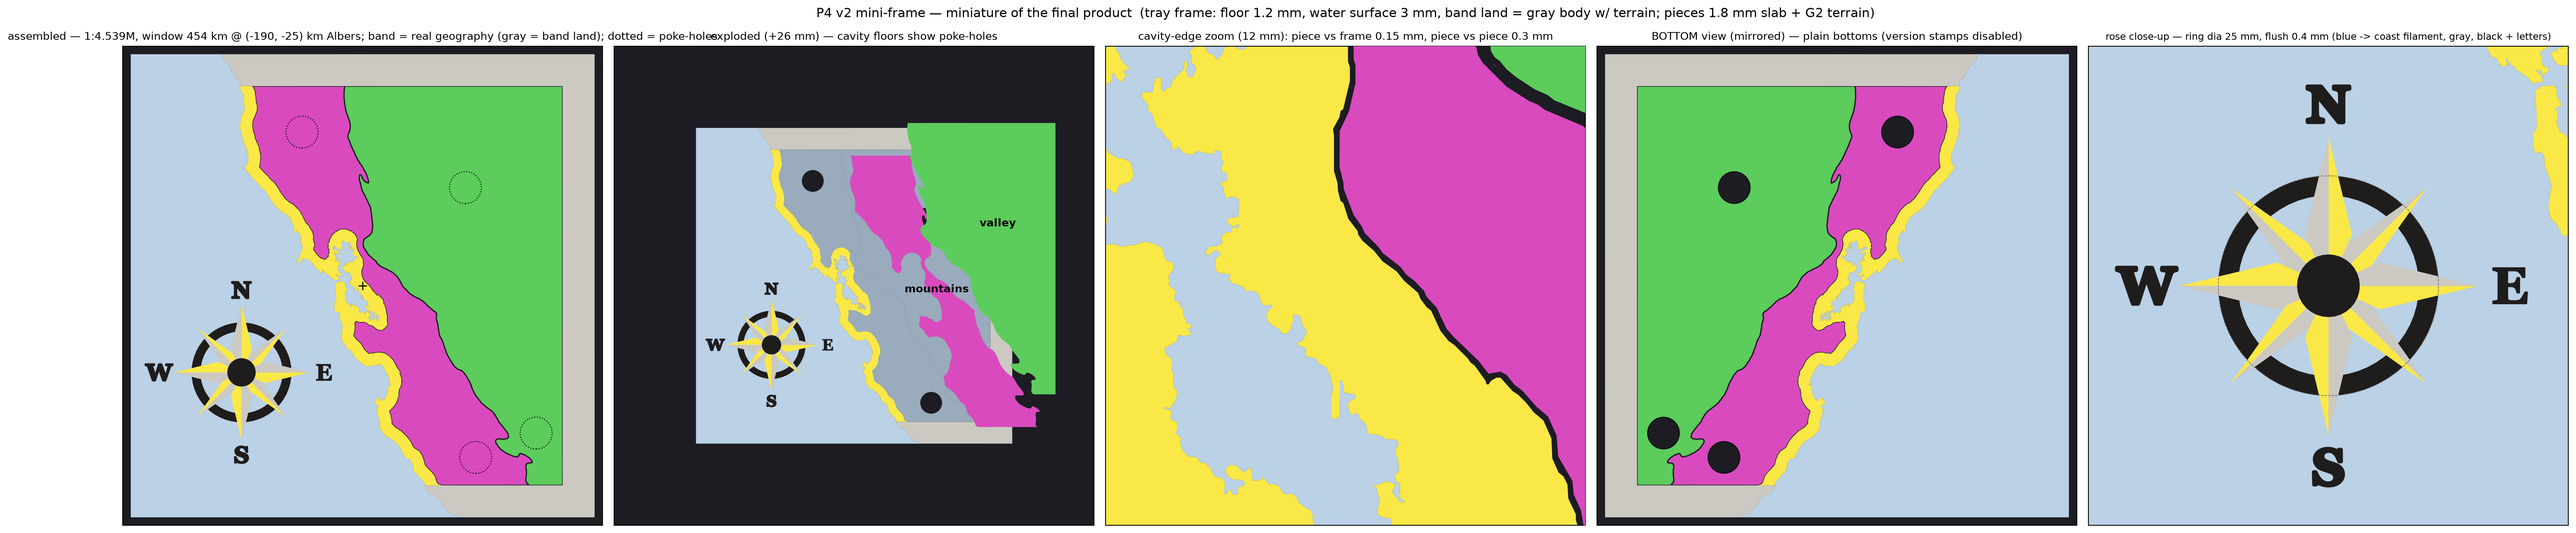
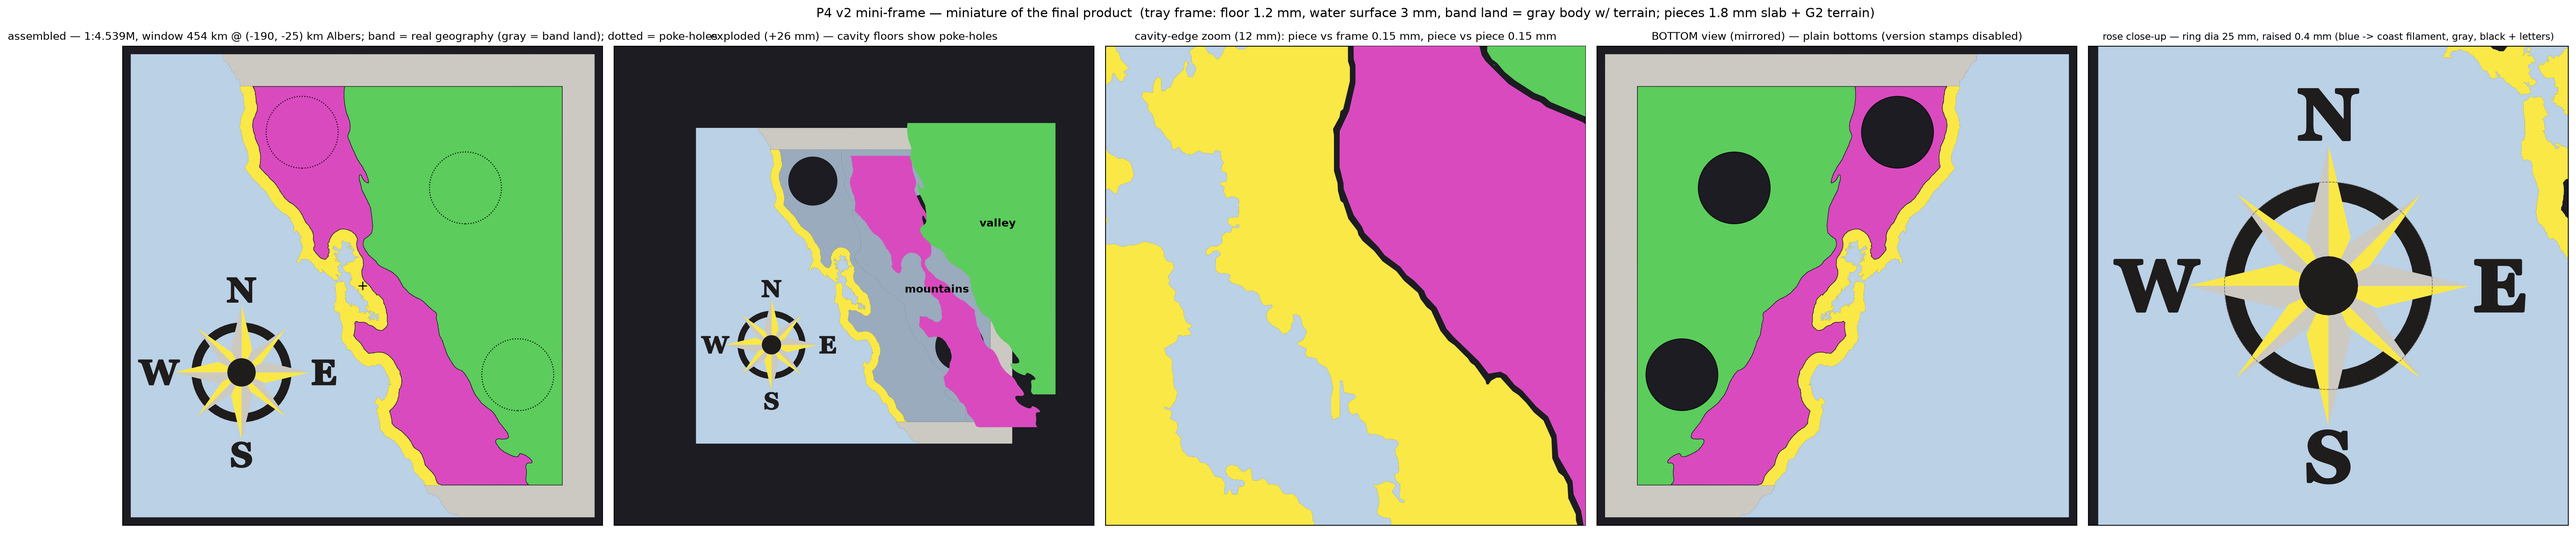
D18: retention via crush ribs + 18mm finger poke-holes (may span seams) = the disassembly mechanism; T2 scope final
Claude-Session: https://claude.ai/code/session_01UmyBij4BnZ6xjWXXCv2QxT

diff --git a/pipeline/p4_bay_coupon.py b/pipeline/p4_bay_coupon.py
@@ -336,6 +336,83 @@ def mask_polygon(mask, erode_px, origin_mm=0.0, clip=None):
     return MultiPolygon(parts) if len(parts) > 1 else parts[0]
 
 
+def piece_polygon(mask, other_mask, c_frame_px, c_pair_px, clip=None):
+    """Sub-pixel polygon of a removable PIECE, generalizing mask_polygon
+    to two clearances: shrink by c_frame_px pixels along stretches facing
+    the FRAME (anything that is not another removable piece -- coast,
+    gray land, water, window/rim edge) and by c_pair_px pixels along
+    stretches facing `other_mask` (the union of SIBLING removable-piece
+    masks). T1 print finding: 0.15 mm/side vs the frame is the calibrated
+    friction fit, but the same 0.15/side between two pieces doubles to a
+    loose 0.30 mm total gap -- piece-piece borders get their own
+    (smaller) [print].clearance_pair_per_side_mm instead.
+
+    Two EDT fields, each a direct generalization of mask_polygon's single
+    field (distance to the nearest non-piece pixel):
+      d_frame = EDT(mask | other_mask) -- distance to the nearest FRAME
+                pixel, computed with siblings folded into the foreground
+                so a nearby sibling never shortens it (the frame distance
+                "sees past" siblings to the real frame territory beyond);
+      d_other = EDT(~other_mask)       -- distance to the nearest sibling
+                pixel (0 on the siblings themselves).
+    field = min(d_frame - c_frame_px, d_other - c_pair_px) - 0.5 (the
+    same half-pixel EDT-to-pixel-center correction as mask_polygon's
+    erode_px + 0.5, folded into the offsets so the contour is taken at
+    the literal zero level), zeroed outside `mask` (matches mask_polygon:
+    background is exactly 0, so no spurious contour appears near a
+    SIBLING's own far boundary elsewhere in the raster); same gaussian
+    smoothing / contour / simplify as mask_polygon.
+
+    Where a stretch borders ONLY the frame, d_other is large so the
+    min() always resolves to the frame term (behaves exactly like
+    mask_polygon(mask, c_frame_px)); where a stretch borders ONLY a
+    sibling, d_frame is large (it sees past the sibling) so the min()
+    resolves to the pair term. At a piece-piece-frame triple point the
+    min() blends the two offsets continuously (no seam/discontinuity).
+    Since d_frame and d_other partition all non-piece pixels by type,
+    min(d_frame, d_other) == the single-field distance-to-nearest-non-
+    piece-pixel used by mask_polygon; at c_frame_px == c_pair_px == 0
+    this function is therefore identical to mask_polygon(mask, 0.0,
+    clip=clip)."""
+    if clip is None:
+        clip = box(0, 0, WINDOW_MM, WINDOW_MM)
+    span = mask.shape[0] * PX_MM
+    piece_p = np.pad(mask, PAD_PX, mode="constant", constant_values=False)
+    other_p = np.pad(other_mask, PAD_PX, mode="constant",
+                     constant_values=False)
+    d_frame = ndimage.distance_transform_edt(piece_p | other_p)
+    d_other = ndimage.distance_transform_edt(~other_p)
+    field = np.minimum(d_frame - c_frame_px, d_other - c_pair_px) - 0.5
+    field = np.where(piece_p, field, 0.0)
+    if EDT_SMOOTH_PX > 0:
+        field = ndimage.gaussian_filter(field, EDT_SMOOTH_PX)
+    rings = []
+    for lp in measure.find_contours(field, 0.0):
+        if len(lp) < 4:
+            continue
+        xs = (lp[:, 1] - PAD_PX + 0.5) * PX_MM
+        ys = span - (lp[:, 0] - PAD_PX + 0.5) * PX_MM
+        ring = Polygon(np.column_stack([xs, ys]))
+        if not ring.is_valid:
+            ring = ring.buffer(0)
+        if ring.is_empty or ring.area < 0.02:
+            continue
+        rings.append(ring)
+    if not rings:
+        return None
+    rings.sort(key=lambda r: r.area, reverse=True)
+    geom = rings[0]
+    for r in rings[1:]:                        # even-odd nesting
+        geom = geom.symmetric_difference(r)
+    geom = geom.intersection(clip)
+    geom = geom.simplify(SIMPLIFY_MM, preserve_topology=True)
+    parts = [g for g in getattr(geom, "geoms", [geom])
+             if g.geom_type == "Polygon" and g.area > 1e-6]
+    if not parts:
+        return None
+    return MultiPolygon(parts) if len(parts) > 1 else parts[0]
+
+
 def clean_piece(poly, name, notes):
     """Removable pieces: drop sub-printable slivers; one component."""
     parts = list(getattr(poly, "geoms", [poly]))
@@ -820,7 +897,7 @@ def render_preview(geo, s, tj, holes, stamps, rose=None, rose_c=None):
             ax.set_ylim(tj[1] - 6, tj[1] + 6)
             ax.set_title(f"cavity-edge zoom (12 mm): piece vs frame "
                          f"{CLEARANCE_MM:g} mm, piece vs piece "
-                         f"{2 * CLEARANCE_MM:g} mm", fontsize=10)
+                         f"{2 * CLEARANCE_PAIR_MM:g} mm", fontsize=10)
         ax.set_aspect("equal")
         ax.set_xticks([]), ax.set_yticks([])
 
@@ -970,10 +1047,18 @@ def main():
 
     # ---- polygons -------------------------------------------------------
     geo = {}
-    for name, rid in (("mountains", base.MOUNTAINS), ("valley", base.VALLEY)):
+    piece_ids = {"mountains": base.MOUNTAINS, "valley": base.VALLEY}
+    for name, rid in piece_ids.items():
+        geo[f"{name}_nom"] = mask_polygon(regw == rid, 0.0)
+    for name, rid in piece_ids.items():
         mask = regw == rid
-        geo[f"{name}_nom"] = mask_polygon(mask, 0.0)
-        piece = clean_piece(mask_polygon(mask, CLEAR_PX), name, notes)
+        other_mask = np.zeros_like(mask)
+        for oname, orid in piece_ids.items():
+            if oname != name:
+                other_mask |= (regw == orid)
+        piece = clean_piece(
+            piece_polygon(mask, other_mask, CLEAR_PX, CLEAR_PAIR_PX),
+            name, notes)
         geo[f"{name}_piece"] = piece
     coast_nom = mask_polygon((regw == base.COAST) & ~seaw, 0.0)
     parts = _parts(coast_nom, MIN_COAST_PART_MM2)
@@ -1260,7 +1345,7 @@ def main():
         gap_piece = piece.distance(other)
         print(f"    min width ~{mlw:.2f} mm; gap vs frame "
               f"{gap_frame:.3f} mm (nominal {CLEARANCE_MM:g}); vs other "
-              f"piece {gap_piece:.3f} mm (nominal {2 * CLEARANCE_MM:g})"
+              f"piece {gap_piece:.3f} mm (nominal {2 * CLEARANCE_PAIR_MM:g})"
               f"  -> {path}")
 
     for n in notes:

diff --git a/pipeline/p5_final.py b/pipeline/p5_final.py
@@ -44,8 +44,13 @@ THE FRAME (out/p5/frame.3mf, 4-color Bambu multi-body):
 
 PIECES (out/p5/{mountains,valley,desert}.stl): slab = base - floor,
 terrain at the G2 normalized z-rule ([output].z_exaggeration x
-horizontal scale), [print].clearance_per_side_mm per side, vertical
-walls with optional [print].bottom_chamfer_mm 45-deg bottom chamfer.
+horizontal scale), [print].clearance_per_side_mm per side against the
+FRAME and [print].clearance_pair_per_side_mm per side against a sibling
+piece (T1 finding: 0.15 mm/side is the frame friction fit, but doubles
+to a loose 0.30 mm between two 0.15/side piece walls -- piece-piece
+borders get the smaller pair clearance instead, blended in via
+p4_bay_coupon.piece_polygon), vertical walls with optional
+[print].bottom_chamfer_mm 45-deg bottom chamfer.
 
 Version stamps (version_stamp.py) debossed into all four bottoms --
 gated by [output].stamps_enabled (currently FALSE per ahl 2026-09-14:
@@ -153,10 +158,17 @@ def main():
     footprint = box(0.0, 0.0, EW_MM, NS_MM)
     geo = {}
     for name, rid, _ in PIECES:
+        geo[f"{name}_nom"] = p4.mask_polygon(regw == rid, 0.0,
+                                             clip=footprint)
+    for name, rid, _ in PIECES:
         mask = regw == rid
-        geo[f"{name}_nom"] = p4.mask_polygon(mask, 0.0, clip=footprint)
+        other_mask = np.zeros_like(mask)
+        for oname, orid, _ in PIECES:
+            if oname != name:
+                other_mask |= (regw == orid)
         geo[f"{name}_piece"] = p4.clean_piece(
-            p4.mask_polygon(mask, p4.CLEAR_PX, clip=footprint), name,
+            p4.piece_polygon(mask, other_mask, p4.CLEAR_PX,
+                             p4.CLEAR_PAIR_PX, clip=footprint), name,
             notes)
         assert geo[f"{name}_piece"].geom_type == "Polygon", \
             f"{name} piece is not one part"
@@ -427,7 +439,7 @@ def main():
         print(f"    {szn}min width "
               f"~{p4.min_land_width(piece):.2f} mm; gap vs frame "
               f"{gap:.3f} (nom {p4.CLEARANCE_MM:g}); vs pieces "
-              f"{gap_pp:.3f} (nom {2 * p4.CLEARANCE_MM:g})  -> {path}")
+              f"{gap_pp:.3f} (nom {2 * p4.CLEARANCE_PAIR_MM:g})  -> {path}")
 
     for n in notes:
         print(f"  note: {n}")
@@ -557,7 +569,8 @@ def render_preview(geo, s, holes, stamps, rose, rose_c, ew_mm):
     fig.suptitle(
         f"P5 final — frame (4-color: coast/water/gray/black rose) + 3 "
         f"pieces; floor {p4.FLOOR_MM:g}, datum {p4.BASE_MM:g}, "
-        f"clearance {p4.CLEARANCE_MM:g}/side, chamfer "
+        f"clearance {p4.CLEARANCE_MM:g}/side frame, "
+        f"{p4.CLEARANCE_PAIR_MM:g}/side piece-piece, chamfer "
         f"{p4.CHAMFER_MM:g}, z x{p4.Z_EXAG:g}", fontsize=12)
     fig.tight_layout()
     fig.savefig(OUT / "p5_preview.png", bbox_inches="tight",

diff --git a/NOTES.md b/NOTES.md
@@ -25,6 +25,7 @@ set into a frame of the surrounding geography.
 | D6 | Print bed 256×256 mm; whole model ≤ 1000×1000 mm total | Either frame fits one bed, or frame is carved into tiles |
 | D7 | Material: PLA. Fit: snug but disassemblable | Clearance values TBD (see G3) |
 | D8 | Version control: jj (colocated git), repo = this directory | |
+| D18 | **Retention & disassembly (ahl 2026-09-14, from T1):** pieces stay seated through handling (T1: mountains fell out when tipped); the FINGER POKE-HOLES (18 mm, may span piece-piece seams) are THE disassembly mechanism. Retention via crush ribs on piece walls (rib_* knobs; ~0.05 mm interference, tune from T2 print). Clearances split by interface: 0.15 total everywhere (frame 0.15 single-side kept from T1's good fit; piece-pair 0.075/side, was 0.30 total = loose valley). | |
 | D17 | **Compass rose (ahl 2026-09-14):** 8-point nautical rose (4 cardinal + 4 intercardinal, split-shaded points, center circle, outer ring, N/E/S/W serif letters) in the bottom-left Pacific of the Frame. Concept: "compass rose.jpeg". Design source: assets/compass_rose.svg (parametric generator pipeline/compass_rose.py — edit SVG directly or params). **Makes the Frame a 4-COLOR print** (adds black for rose outlines + lettering). Physical size + emboss method decided at placement. | |
 | D16 | **The Frame is a TRAY (ahl 2026-09-13):** a continuous floor (FLOOR_MM = 1.2, 6 layers) runs under the whole footprint; cavities are recesses, not through-holes — pieces rest ON the Frame. Poke-holes (2x 8 mm circles in the floor per piece, at interior points) allow pushing pieces out from below. Pieces carry BASE_MM - FLOOR_MM of slab so all datums/tops align. Water/base height: 3.0 mm proposed for final rigidity (ahl deciding 2.0-3.0); G2 relief rides on top (total max ~11.5 mm at 3.0). | |
 | D15 | **PIECE PLAN REVISED (ahl 2026-09-13, supersedes D2/G11 piece-hood):** the model = the **FRAME** + THREE removable pieces (Mountains, Valley, Desert). **"Frame" (ahl's term, confirmed) = non-California land (gray) + water (Pacific + SF Bay, one continuous color) + the California coastal region (yellow), with the Channel Islands as yellow islands on the water** — one 3-color AMS multi-body print. Coast is not removable. Multi-body 3MF path already validated (NOTES-3mf.md). **Explicit (ahl 2026-09-14): the gray non-CA land carries FULL TERRAIN (gray = recolor, not flattening), and water runs to the map edge with no gray ring — the P4 mini-frame rehearses both.** | |
